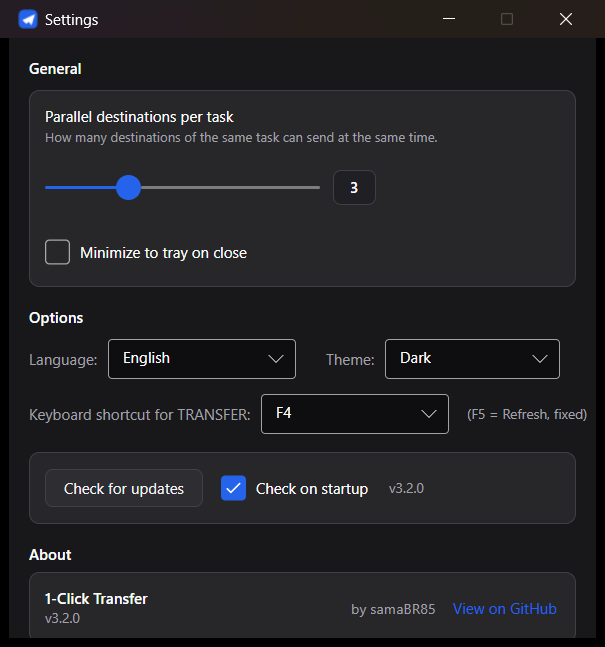
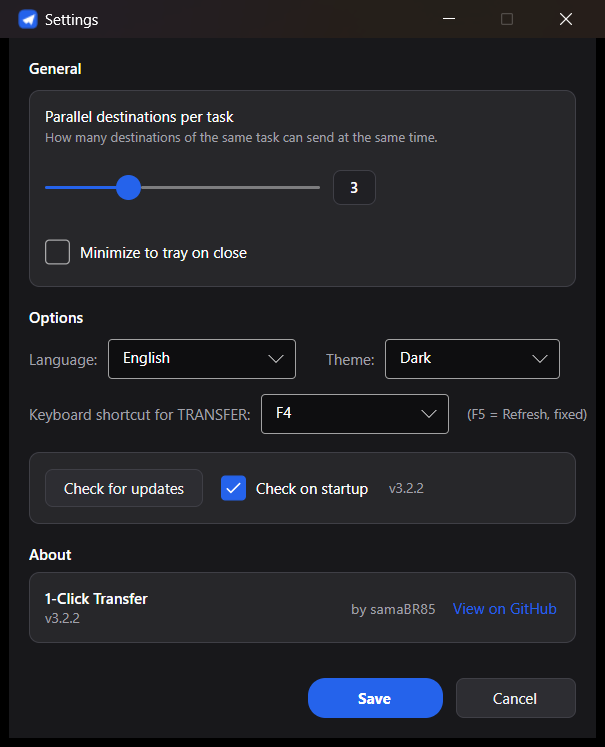
v3(46): bump 3.2.2, screenshots atualizadas, README dividido em EN/PT
README.md vira so ingles (pagina padrao); o conteudo em portugues muda
pra README.pt-BR.md, com link de volta no topo. Cada um linka pro outro
(convencao comum do GitHub p/ READMEs localizados) -- sem mais duas
linguas empilhadas no mesmo arquivo.

Screenshots regeneradas com a v3.2.2 rodando (dados 100% genericos,
C:\octdemo\...): home.png agora mostra a versao nova, os 3 exemplos de
tarefa e a coluna Progress da fila com "Failed: motivo" em vermelho
(feature do v3(45), ainda nao capturada); settings.png so atualiza a
versao mostrada.

diff --git a/README.md b/README.md
@@ -16,15 +16,10 @@
 
 <p align="center">
   <a href="https://samabr85.github.io/1clicktransfer/"><b>🌐 Website</b></a> &nbsp;·&nbsp;
-  <a href="#-english"><b>🇬🇧 English</b></a> &nbsp;·&nbsp;
-  <a href="#-português"><b>🇧🇷 Português</b></a>
+  <a href="README.pt-BR.md"><b>🇧🇷 Ler em Português</b></a>
 </p>
 
 <hr>
-
-<a id="-english"></a>
-
-## 🇬🇧 English
 
 A **cross-platform** desktop app (**C# / .NET 8, Avalonia UI**) for **Windows, Linux and macOS**.
 One big **TRANSFER** button sends your pre-chosen **file(s)** to your pre-chosen **destination(s)** —
@@ -36,7 +31,7 @@ time**, or let it **watch** a file and send it automatically when it changes.
   <img src="screenshots/v3.0/home.png" width="860" alt="1-Click Transfer — main window">
 </p>
 
-### Features
+## Features
 - **Multiple tasks** — each task is its own *source → destinations* pair. Toggle any on/off and
   transfer all the enabled ones with one click, or hit **Send this task** to fire just one.
 - **Multiple source files** per task, sent to **multiple destinations**: local/network folders,
@@ -70,7 +65,7 @@ time**, or let it **watch** a file and send it automatically when it changes.
   <img src="screenshots/v3.0/settings.png" width="380" alt="Settings — parallel destinations, minimize to tray, language, theme, shortcut, updates">
 </p>
 
-### Download & run
+## Download & run
 Grab the latest **[Release](https://github.com/samaBR85/1clicktransfer/releases/latest)** for your OS —
 each asset is a `.zip` containing a single **self-contained** executable (a `.app` bundle on macOS,
 so it gets a proper Dock icon), no runtime or install needed:
@@ -86,7 +81,7 @@ so it gets a proper Dock icon), no runtime or install needed:
 `1clickTransfer.app/Contents/MacOS/1clickTransfer`). On Linux/macOS, if that folder
 isn't writable it falls back to `~/.config/1clicktransfer/settings.json`.
 
-### Command line
+## Command line
 Run a transfer without opening the window — handy for scripts, cron and Task Scheduler:
 
 | Command | What it does |
@@ -100,7 +95,7 @@ Run a transfer without opening the window — handy for scripts, cron and Task S
 No arguments → opens the normal window. Exit codes: `0` = ok, `1` = some failure, `2` = usage error.
 On macOS the binary for CLI use is `1clickTransfer.app/Contents/MacOS/1clickTransfer`.
 
-### Run from source / build
+## Run from source / build
 Requires the **.NET 8 SDK**.
 ```bash
 dotnet run --project src/OneClickTransfer.Avalonia        # run from source
@@ -116,114 +111,10 @@ contractual names above.
 > frozen Windows-only WPF v2. The root `TransferApp.ps1` and the two `.vbs` files are the original
 > **v1** (PowerShell/VBScript) — kept for history only and **not part of the distribution**.
 
-### License
+## License
 [MIT](LICENSE) © 2026 samaBR85.
 
-### Credits
+## Credits
 UI/UX and feature ideas inspired by **[Cyberduck](https://cyberduck.io)**, the open-source
 file transfer browser. This project shares **no code** with Cyberduck and is independently
 licensed under MIT.
-
-<hr>
-
-<a id="-português"></a>
-
-## 🇧🇷 Português
-
-Um app de desktop **multiplataforma** (**C# / .NET 8, Avalonia UI**) para **Windows, Linux e macOS**.
-Um botão grande **TRANSFERIR** envia seu(s) **arquivo(s)** pré-escolhido(s) para o(s) **destino(s)**
-pré-escolhido(s) — uma **pasta local/rede**, um servidor **FTP/FTPS** ou **SFTP**. Monte várias
-**tarefas** independentes (cada uma com sua origem e seus destinos) e dispare todas com um clique
-ou **uma de cada vez** — ou deixe o app **observar** um arquivo e enviá-lo sozinho quando ele mudar.
-
-<p align="center">
-  <img src="screenshots/v3.0/home.png" width="860" alt="Transferência 1-Clique — janela principal">
-</p>
-
-### Recursos
-- **Várias tarefas** — cada tarefa é um par *origem → destinos*. Ligue/desligue quais quiser e
-  transfira todas as marcadas com um clique, ou use **Enviar esta tarefa** para disparar só uma.
-- **Vários arquivos de origem** por tarefa, para **vários destinos**: pastas local/rede,
-  **FTP/FTPS** e **SFTP**. Os destinos ficam numa biblioteca salva, com checkbox por item,
-  **grupos** nomeados, **presets** reutilizáveis e uma biblioteca de **servidores FTP/SFTP salvos**.
-- **Fila de transferência** — um painel ao vivo mostra o que está na fila, em andamento, com falha
-  e concluído, com progresso por item e um limite configurável de **destinos em paralelo**.
-- **Origem em pasta com padrões de exclusão** — escolha uma pasta inteira (recursiva) como origem e
-  exclua subpastas/arquivos com padrões simples no estilo `.gitignore`.
-- **Botão direito num destino** — criar pasta, renomear, excluir ou copiar o caminho, tanto local
-  quanto em destinos FTP/SFTP.
-- **Observar (envio automático), por tarefa** — quando o arquivo de origem muda, a tarefa envia
-  sozinha (ótimo para saídas de build).
-- **Ícone na bandeja do sistema** — abrir a janela, enviar todas as tarefas habilitadas ou sair
-  direto da bandeja; opção de **minimizar para a bandeja ao fechar**.
-- **Notificações do sistema** ao concluir ou falhar uma transferência (Windows, Linux, macOS).
-- **Linha de comando** — rode sem janela por script, cron ou Agendador de Tarefas:
-  `1clickTransfer --task "Nome"`, `--all`, `--list`, `--silent`.
-- **Auto-update** — verifica os Releases do GitHub; no Windows baixa e se substitui, no Linux/macOS
-  mostra as novidades e abre a página do release.
-- **Ações**: *Substituir*, *Substituir se for mais recente*, *Não Substituir*.
-- **Navegadores de Origem/Destino** (com navegador de pastas FTP/SFTP), colunas e painéis
-  redimensionáveis; a janela **lembra tamanho e posição**.
-- Tema **escuro / claro**, interface **Português / Inglês** (troca em Configurações).
-- Senhas guardadas **criptografadas** — **DPAPI** do Windows (por usuário); no Linux/macOS uma chave
-  AES local ao lado das configurações (ofuscação, não segurança forte). Um executável **portátil** por SO.
-
-<p align="center">
-  <img src="screenshots/v3.0/edit-task.png" width="380" alt="Editar tarefa — origem em pasta com padrões de exclusão, destinos, presets">
-  &nbsp;
-  <img src="screenshots/v3.0/settings.png" width="380" alt="Configurações — destinos em paralelo, minimizar para bandeja, idioma, tema, atalho, updates">
-</p>
-
-### Baixar e usar
-Baixe o **[Release](https://github.com/samaBR85/1clicktransfer/releases/latest)** mais recente do seu
-SO — cada asset é um `.zip` com um executável **self-contained** dentro (no macOS, um `.app` com
-ícone de verdade no Dock), sem runtime nem instalação:
-
-| SO | Download | Como rodar |
-|---|---|---|
-| **Windows 10/11** | `1clickTransfer-win-x64.zip` | descompacte e duplo-clique em `1clickTransfer.exe`. O SmartScreen pode alertar (não é assinado): *Mais informações → Executar assim mesmo* |
-| **Linux (x64)** | `1clickTransfer-linux-x64.zip` | descompacte e `chmod +x 1clickTransfer-linux-x64 && ./1clickTransfer-linux-x64` |
-| **macOS (Intel)** | `1clickTransfer-osx-x64.zip` | descompacte pra obter `1clickTransfer.app`, clique com o botão direito → *Abrir* (Gatekeeper, build não assinado) |
-| **macOS (Apple Silicon)** | `1clickTransfer-osx-arm64.zip` | igual ao Intel, build arm64 |
-
-O `settings.json` é criado **ao lado do executável** (portátil — no macOS, ao lado de
-`1clickTransfer.app/Contents/MacOS/1clickTransfer`). No Linux/macOS, se a pasta não for
-gravável, ele usa `~/.config/1clicktransfer/settings.json`.
-
-### Linha de comando
-Dispare uma transferência sem abrir a janela — ótimo para scripts, cron e Agendador de Tarefas:
-
-| Comando | O que faz |
-|---|---|
-| `1clickTransfer --task "Nome"` | envia essa tarefa (repita `--task` para várias) |
-| `1clickTransfer --all` | envia todas as tarefas marcadas |
-| `1clickTransfer --list` | lista as tarefas salvas |
-| `1clickTransfer --silent` | sem saída no console (só o código de saída) |
-| `1clickTransfer --help` | ajuda |
-
-Sem argumentos → abre a janela normal. Códigos de saída: `0` = ok, `1` = alguma falha, `2` = erro de uso.
-No macOS, o binário pra uso via CLI é `1clickTransfer.app/Contents/MacOS/1clickTransfer`.
-
-### Rodar pelo código / compilar
-Requer o **SDK do .NET 8**.
-```bash
-dotnet run --project src/OneClickTransfer.Avalonia        # roda pelo código-fonte
-dotnet test 1clickTransfer.sln -c Release                 # roda os testes
-# publica os binários single-file self-contained em dist-v3/ :
-powershell -NoProfile -ExecutionPolicy Bypass -File tools/build-v3.ps1 -Rid all
-```
-O `build-v3.ps1` gera os binários `win-x64`, `linux-x64`, `osx-x64` e `osx-arm64` com os nomes
-contratuais acima.
-
-> **Organização.** `src/OneClickTransfer.Core` tem toda a lógica (modelos, serviços, i18n), sem UI;
-> `src/OneClickTransfer.Avalonia` é a UI multiplataforma (v3). `src/OneClickTransfer` é o WPF v2
-> (Windows, congelado). Os arquivos `TransferApp.ps1` e os dois `.vbs` na raiz são a versão **v1**
-> original (PowerShell/VBScript) — ficam só por histórico e **não fazem parte da distribuição**.
-
-### Licença
-[MIT](LICENSE) © 2026 samaBR85.
-
-### Créditos
-UI/UX e ideias de recursos inspiradas no **[Cyberduck](https://cyberduck.io)**, o navegador
-de transferência de arquivos open source. Este projeto **não compartilha código** com o
-Cyberduck e é licenciado de forma independente sob MIT.

diff --git a/README.pt-BR.md b/README.pt-BR.md
@@ -1,0 +1,120 @@
+<p align="center">
+  <img src="assets/app-icon-256.png" width="120" height="120" alt="1-Click Transfer">
+</p>
+
+<h1 align="center">1-Click Transfer</h1>
+
+<p align="center">
+  <a href="https://github.com/samaBR85/1clicktransfer/releases/latest"><img src="https://img.shields.io/github/v/release/samaBR85/1clicktransfer?label=download" alt="Release"></a>
+  <img src="https://img.shields.io/github/downloads/samaBR85/1clicktransfer/total?label=downloads&color=success" alt="Downloads">
+  <img src="https://img.shields.io/badge/license-MIT-blue" alt="MIT">
+  <img src="https://img.shields.io/badge/platform-Windows%20%7C%20Linux%20%7C%20macOS-0078D4" alt="Windows | Linux | macOS">
+  <img src="https://img.shields.io/badge/.NET-8-512BD4" alt=".NET 8">
+  <img src="https://img.shields.io/badge/UI-Avalonia%2011-8B3FE8" alt="Avalonia 11">
+  <img src="https://img.shields.io/badge/i18n-PT%20%2B%20EN-success" alt="PT + EN">
+</p>
+
+<p align="center">
+  <a href="https://samabr85.github.io/1clicktransfer/"><b>🌐 Website</b></a> &nbsp;·&nbsp;
+  <a href="README.md"><b>🇬🇧 Read in English</b></a>
+</p>
+
+<hr>
+
+Um app de desktop **multiplataforma** (**C# / .NET 8, Avalonia UI**) para **Windows, Linux e macOS**.
+Um botão grande **TRANSFERIR** envia seu(s) **arquivo(s)** pré-escolhido(s) para o(s) **destino(s)**
+pré-escolhido(s) — uma **pasta local/rede**, um servidor **FTP/FTPS** ou **SFTP**. Monte várias
+**tarefas** independentes (cada uma com sua origem e seus destinos) e dispare todas com um clique
+ou **uma de cada vez** — ou deixe o app **observar** um arquivo e enviá-lo sozinho quando ele mudar.
+
+<p align="center">
+  <img src="screenshots/v3.0/home.png" width="860" alt="Transferência 1-Clique — janela principal">
+</p>
+
+## Recursos
+- **Várias tarefas** — cada tarefa é um par *origem → destinos*. Ligue/desligue quais quiser e
+  transfira todas as marcadas com um clique, ou use **Enviar esta tarefa** para disparar só uma.
+- **Vários arquivos de origem** por tarefa, para **vários destinos**: pastas local/rede,
+  **FTP/FTPS** e **SFTP**. Os destinos ficam numa biblioteca salva, com checkbox por item,
+  **grupos** nomeados, **presets** reutilizáveis e uma biblioteca de **servidores FTP/SFTP salvos**.
+- **Fila de transferência** — um painel ao vivo mostra o que está na fila, em andamento, com falha
+  e concluído, com progresso por item e um limite configurável de **destinos em paralelo**.
+- **Origem em pasta com padrões de exclusão** — escolha uma pasta inteira (recursiva) como origem e
+  exclua subpastas/arquivos com padrões simples no estilo `.gitignore`.
+- **Botão direito num destino** — criar pasta, renomear, excluir ou copiar o caminho, tanto local
+  quanto em destinos FTP/SFTP.
+- **Observar (envio automático), por tarefa** — quando o arquivo de origem muda, a tarefa envia
+  sozinha (ótimo para saídas de build).
+- **Ícone na bandeja do sistema** — abrir a janela, enviar todas as tarefas habilitadas ou sair
+  direto da bandeja; opção de **minimizar para a bandeja ao fechar**.
+- **Notificações do sistema** ao concluir ou falhar uma transferência (Windows, Linux, macOS).
+- **Linha de comando** — rode sem janela por script, cron ou Agendador de Tarefas:
+  `1clickTransfer --task "Nome"`, `--all`, `--list`, `--silent`.
+- **Auto-update** — verifica os Releases do GitHub; no Windows baixa e se substitui, no Linux/macOS
+  mostra as novidades e abre a página do release.
+- **Ações**: *Substituir*, *Substituir se for mais recente*, *Não Substituir*.
+- **Navegadores de Origem/Destino** (com navegador de pastas FTP/SFTP), colunas e painéis
+  redimensionáveis; a janela **lembra tamanho e posição**.
+- Tema **escuro / claro**, interface **Português / Inglês** (troca em Configurações).
+- Senhas guardadas **criptografadas** — **DPAPI** do Windows (por usuário); no Linux/macOS uma chave
+  AES local ao lado das configurações (ofuscação, não segurança forte). Um executável **portátil** por SO.
+
+<p align="center">
+  <img src="screenshots/v3.0/edit-task.png" width="380" alt="Editar tarefa — origem em pasta com padrões de exclusão, destinos, presets">
+  &nbsp;
+  <img src="screenshots/v3.0/settings.png" width="380" alt="Configurações — destinos em paralelo, minimizar para bandeja, idioma, tema, atalho, updates">
+</p>
+
+## Baixar e usar
+Baixe o **[Release](https://github.com/samaBR85/1clicktransfer/releases/latest)** mais recente do seu
+SO — cada asset é um `.zip` com um executável **self-contained** dentro (no macOS, um `.app` com
+ícone de verdade no Dock), sem runtime nem instalação:
+
+| SO | Download | Como rodar |
+|---|---|---|
+| **Windows 10/11** | `1clickTransfer-win-x64.zip` | descompacte e duplo-clique em `1clickTransfer.exe`. O SmartScreen pode alertar (não é assinado): *Mais informações → Executar assim mesmo* |
+| **Linux (x64)** | `1clickTransfer-linux-x64.zip` | descompacte e `chmod +x 1clickTransfer-linux-x64 && ./1clickTransfer-linux-x64` |
+| **macOS (Intel)** | `1clickTransfer-osx-x64.zip` | descompacte pra obter `1clickTransfer.app`, clique com o botão direito → *Abrir* (Gatekeeper, build não assinado) |
+| **macOS (Apple Silicon)** | `1clickTransfer-osx-arm64.zip` | igual ao Intel, build arm64 |
+
+O `settings.json` é criado **ao lado do executável** (portátil — no macOS, ao lado de
+`1clickTransfer.app/Contents/MacOS/1clickTransfer`). No Linux/macOS, se a pasta não for
+gravável, ele usa `~/.config/1clicktransfer/settings.json`.
+
+## Linha de comando
+Dispare uma transferência sem abrir a janela — ótimo para scripts, cron e Agendador de Tarefas:
+
+| Comando | O que faz |
+|---|---|
+| `1clickTransfer --task "Nome"` | envia essa tarefa (repita `--task` para várias) |
+| `1clickTransfer --all` | envia todas as tarefas marcadas |
+| `1clickTransfer --list` | lista as tarefas salvas |
+| `1clickTransfer --silent` | sem saída no console (só o código de saída) |
+| `1clickTransfer --help` | ajuda |
+
+Sem argumentos → abre a janela normal. Códigos de saída: `0` = ok, `1` = alguma falha, `2` = erro de uso.
+No macOS, o binário pra uso via CLI é `1clickTransfer.app/Contents/MacOS/1clickTransfer`.
+
+## Rodar pelo código / compilar
+Requer o **SDK do .NET 8**.
+```bash
+dotnet run --project src/OneClickTransfer.Avalonia        # roda pelo código-fonte
+dotnet test 1clickTransfer.sln -c Release                 # roda os testes
+# publica os binários single-file self-contained em dist-v3/ :
+powershell -NoProfile -ExecutionPolicy Bypass -File tools/build-v3.ps1 -Rid all
+```
+O `build-v3.ps1` gera os binários `win-x64`, `linux-x64`, `osx-x64` e `osx-arm64` com os nomes
+contratuais acima.
+
+> **Organização.** `src/OneClickTransfer.Core` tem toda a lógica (modelos, serviços, i18n), sem UI;
+> `src/OneClickTransfer.Avalonia` é a UI multiplataforma (v3). `src/OneClickTransfer` é o WPF v2
+> (Windows, congelado). Os arquivos `TransferApp.ps1` e os dois `.vbs` na raiz são a versão **v1**
+> original (PowerShell/VBScript) — ficam só por histórico e **não fazem parte da distribuição**.
+
+## Licença
+[MIT](LICENSE) © 2026 samaBR85.
+
+## Créditos
+UI/UX e ideias de recursos inspiradas no **[Cyberduck](https://cyberduck.io)**, o navegador
+de transferência de arquivos open source. Este projeto **não compartilha código** com o
+Cyberduck e é licenciado de forma independente sob MIT.